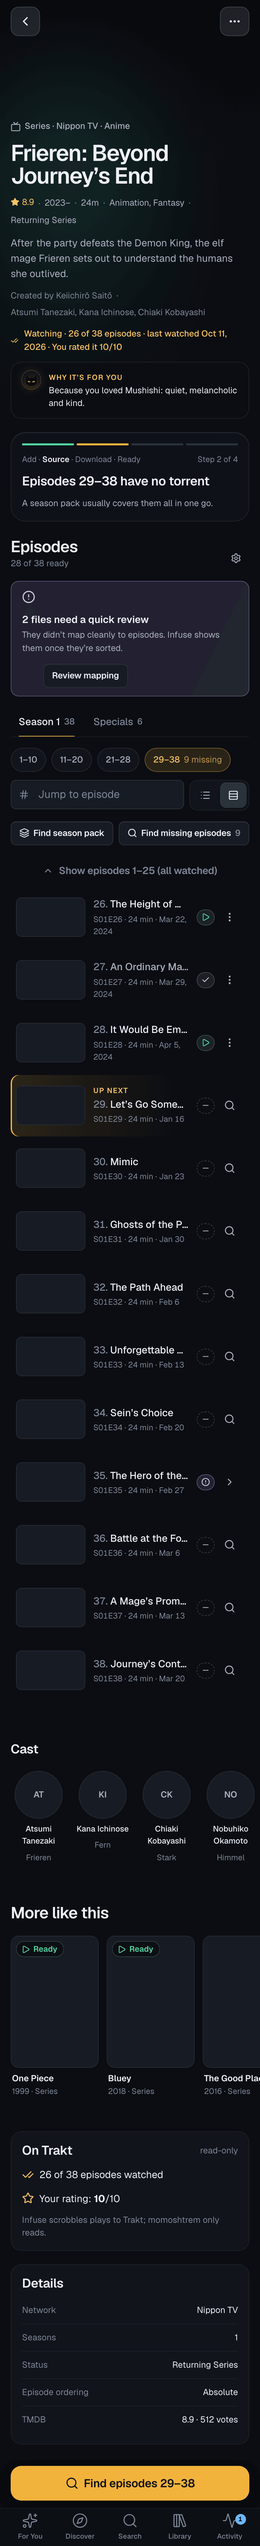
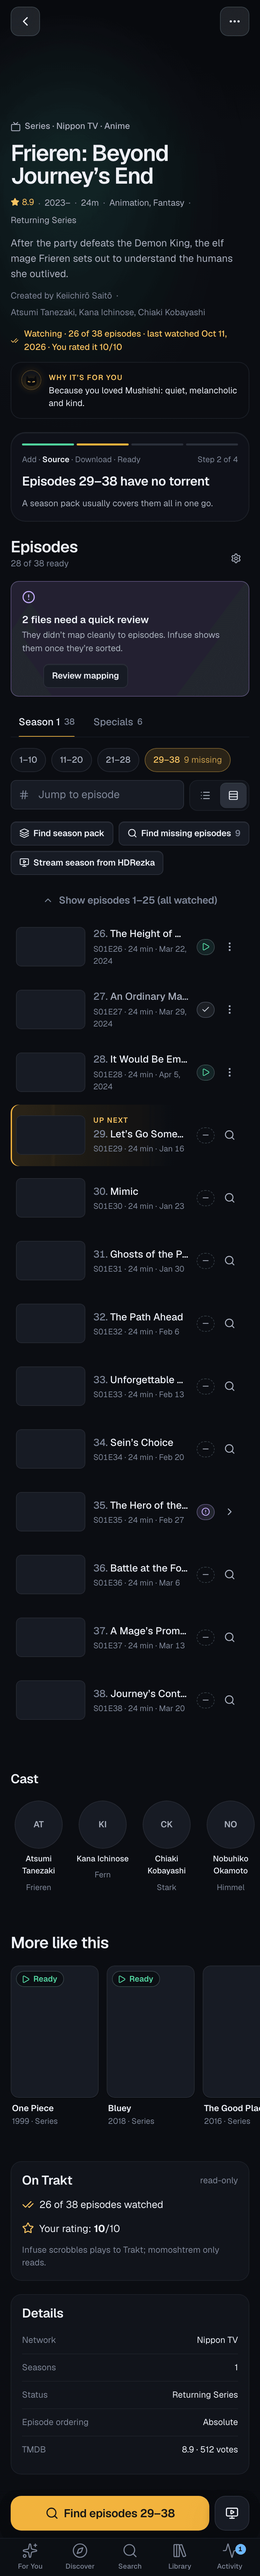
test(web): HDRezka show e2e and screenshots (#67)
e2e/hdrezka.spec.ts, at 390 and 1440 with axe and the 320 px check:
- a show's missing episodes, selected for you, streamed, and the rows
  ready with "Source: HDRezka · AniLibria · 1080p" in the episode sheet;
- a partial failure (hdrezka-partial): what failed stays selected and
  named, and Retry streams only those;
- from the episode sheet: only that episode, and back to it afterwards;
- replacing an episode's torrent from Replace, after the confirm.
The movie test follows the second cut of HDrezka Studio. title-show's
Replace test picks "Find a torrent" from the new menu.

Screenshots: hdrezka/{show-episodes,show-seasons,show-partial,
episode-sheet} are new; hdrezka/steps and show/* are retaken.

diff --git a/web/e2e/hdrezka.spec.ts b/web/e2e/hdrezka.spec.ts
@@ -4,8 +4,9 @@ import { expectNoA11yViolations, expectNoHorizontalOverflow } from './helpers/a1
 
 /**
  * HDRezka as a second source (#67), against the MSW mocks: One Battle After
- * Another needs a file, Dune: Part Two plays from a torrent. Scenarios in
- * src/mocks/scenario.ts (hdrezka-blocked, -premium, -off).
+ * Another needs a file, Dune: Part Two plays from a torrent, Frieren misses
+ * episodes 29–38. Scenarios in src/mocks/scenario.ts (hdrezka-blocked,
+ * -premium, -partial, -off).
  */
 
 /** axe and no sideways scrolling at this width and at 320 px. */
@@ -24,6 +25,7 @@ async function expectAccessibleAndContained(page: Page) {
 const scenario = (page: Page, name: string) => page.addInitScript((value) => window.localStorage.setItem('msw:scenario', value), name);
 const sheet = (page: Page) => page.getByRole('dialog', { name: /^Find a source · / });
 const BEST = 'Битва за битвой (2025)';
+const FRIEREN_HIT = 'Провожающая в последний путь Фрирен (2023)';
 
 /** The panel's button on desktop, the dock's icon on phone: both "Stream from HDRezka". */
 async function openFromPanel(page: Page) {
@@ -49,7 +51,7 @@ test.describe('HDRezka', () => {
     await expectAccessibleAndContained(page);
 
     await best.getByRole('button', { name: `Use ${BEST}` }).click();
-    await expect(dialog.getByRole('radio', { name: 'HDrezka Studio' })).toBeChecked();
+    await expect(dialog.getByRole('radio', { name: 'HDrezka Studio', exact: true })).toBeChecked();
     await expect(dialog.getByRole('radio', { name: 'Дубляж, Premium' })).toBeDisabled();
     await dialog.getByRole('radio', { name: 'Оригинал (+субтитры)' }).check();
     await expect(dialog.getByText('Subtitles: English, Русский')).toBeVisible();
@@ -103,14 +105,14 @@ test.describe('HDRezka', () => {
     await signIn(page, '/movie/1054867');
     await openFromPanel(page);
     await sheet(page).getByRole('button', { name: `Use ${BEST}` }).click();
-    await sheet(page).getByRole('radio', { name: 'Jaskier, Director’s cut' }).check();
+    await sheet(page).getByRole('radio', { name: 'HDrezka Studio, Director’s cut' }).check();
     await sheet(page).getByRole('button', { name: 'Close (your choices are kept)' }).click();
     await expect(sheet(page)).toBeHidden();
     await expect(page).toHaveURL(/\/movie\/1054867$/);
 
     await openFromPanel(page);
     await expect(sheet(page).getByText('Picked up where you left off')).toBeVisible();
-    await expect(sheet(page).getByRole('radio', { name: 'Jaskier, Director’s cut' })).toBeChecked();
+    await expect(sheet(page).getByRole('radio', { name: 'HDrezka Studio, Director’s cut' })).toBeChecked();
 
     await sheet(page).getByRole('tab', { name: 'Torrents' }).click();
     await expect(sheet(page)).toBeHidden();
@@ -162,5 +164,90 @@ test.describe('HDRezka', () => {
     await page.getByRole('button', { name: 'More actions for One Battle After Another' }).click();
     await expect(page.getByText('Refresh from TMDB')).toBeVisible();
     await expect(page.getByText('Stream from HDRezka…')).toHaveCount(0);
+  });
+
+  test('stream a show’s missing episodes: selected for you, then ready from HDRezka', async ({ page }) => {
+    await signIn(page, '/tv/209867');
+    await expect(page.getByRole('region', { name: 'Episodes 29–38 have no torrent' })).toBeVisible();
+    // The panel's secondary on desktop, the dock's icon on phone; a run opens on its season
+    await page.getByRole('button', { name: 'Stream from HDRezka' }).click();
+    await expect(page).toHaveURL(/[?&]sheet=hdrezka&show=209867&season=1/);
+    const dialog = sheet(page);
+    await expect(dialog).toHaveAccessibleName('Find a source · Frieren: Beyond Journey’s End Season 1');
+    await dialog.getByRole('button', { name: `Use ${FRIEREN_HIT}` }).click();
+    await expect(dialog.getByRole('radio', { name: 'AniLibria' })).toBeChecked();
+    const list = dialog.getByRole('list', { name: 'Season 1 episodes on HDRezka' });
+    await expect(list.getByRole('checkbox', { name: /^E29 · .+ → S01E29$/ })).toBeChecked();
+    await expect(list.getByRole('checkbox', { name: /^E28 · / })).not.toBeChecked();
+    await expect(list.getByRole('checkbox', { name: /^E28 · / }).locator('xpath=ancestor::label')).toContainText('Torrent');
+    await expect(dialog.getByText('10 episodes selected')).toBeVisible();
+    await expect(dialog.getByRole('radio', { name: '1080p, 640 MB an episode' })).toBeChecked();
+    await expectAccessibleAndContained(page);
+
+    await dialog.getByRole('button', { name: 'Stream 10 episodes' }).click();
+    await expect(page.getByRole('status').filter({ hasText: '10 episodes of Frieren: Beyond Journey’s End · ready in Infuse' })).toBeVisible();
+    await expect(dialog).toBeHidden();
+    await expect(page.getByRole('region', { name: 'Ready in Infuse' })).toBeVisible();
+
+    // The rows are ready, and the episode sheet names the source
+    await page.getByRole('button', { name: /^S01E30 options/ }).click();
+    const episode = page.getByRole('dialog', { name: 'Mimic' });
+    await expect(episode).toContainText('Source: HDRezka · AniLibria · 1080p');
+    await expect(episode.getByLabel('WebDAV path of this episode')).toContainText('S01E30 - Mimic.mp4');
+  });
+
+  test('a partial failure: what failed stays, and Retry streams only those', async ({ page }) => {
+    await scenario(page, 'hdrezka-partial');
+    await signIn(page, '/tv/209867?sheet=hdrezka&show=209867&season=1');
+    const dialog = sheet(page);
+    await dialog.getByRole('button', { name: `Use ${FRIEREN_HIT}` }).click();
+    await expect(dialog.getByRole('radio', { name: '1080p, 640 MB an episode' })).toBeChecked();
+    await dialog.getByRole('button', { name: 'Stream 10 episodes' }).click();
+
+    const alert = dialog.getByRole('alert');
+    await expect(alert).toContainText('3 episodes didn’t stream');
+    await expect(alert).toContainText('S01E31, S01E34, S01E37. HDRezka took too long to answer for this episode. The rest are ready in Infuse.');
+    await expect(dialog.getByText('3 episodes selected')).toBeVisible();
+    await expect(dialog.getByRole('list', { name: 'Season 1 episodes on HDRezka' }).getByRole('checkbox', { name: /^E30 · / }).locator('xpath=ancestor::label')).toContainText('HDRezka · AniLibria');
+    await expectAccessibleAndContained(page);
+
+    await alert.getByRole('button', { name: 'Retry them' }).click();
+    await expect(page.getByRole('status').filter({ hasText: '3 episodes of Frieren: Beyond Journey’s End · ready in Infuse' })).toBeVisible();
+    await expect(dialog).toBeHidden();
+  });
+
+  test('from the episode sheet: just that episode, and back to it afterwards', async ({ page }) => {
+    await signIn(page, '/tv/209867?sheet=episode&tmdb=209867&se=S01E30');
+    const episode = page.getByRole('dialog', { name: 'Mimic' });
+    await episode.getByRole('button', { name: 'Stream from HDRezka' }).click();
+    const dialog = sheet(page);
+    await expect(dialog).toHaveAccessibleName('Find a source · Frieren: Beyond Journey’s End S01E30 · Mimic');
+    await dialog.getByRole('button', { name: `Use ${FRIEREN_HIT}` }).click();
+    await expect(dialog.getByText('1 episode selected')).toBeVisible();
+    await expect(dialog.getByRole('checkbox', { name: /^E30 · / })).toBeChecked();
+    await dialog.getByRole('button', { name: 'Stream 1 episode' }).click();
+
+    await expect(dialog).toBeHidden();
+    await expect(episode).toContainText('Source: HDRezka · AniLibria · 1080p');
+    await expectAccessibleAndContained(page);
+  });
+
+  test('replacing an episode’s torrent asks first, from Replace in the episode sheet', async ({ page }, testInfo) => {
+    await signIn(page, '/tv/95396?sheet=episode&tmdb=95396&se=S02E05');
+    const episode = page.getByRole('dialog', { name: 'Trojan’s Horse' });
+    await expect(episode).toContainText('Source: Torrent');
+    await episode.getByRole('button', { name: 'Replace' }).click();
+    if (testInfo.project.name === 'mobile') await page.getByRole('dialog', { name: 'Replace with' }).getByRole('button', { name: 'Stream from HDRezka' }).click();
+    else await page.getByRole('menuitem', { name: 'Stream from HDRezka' }).click();
+    const dialog = sheet(page);
+    await dialog.getByRole('button', { name: 'Use Разделение (2022)' }).click();
+    await expect(dialog.getByRole('checkbox', { name: /^E05 · Trojan’s Horse → S02E05$/ })).toBeChecked();
+    await expect(dialog.getByRole('radio', { name: /^1080p, / })).toBeChecked();
+    await dialog.getByRole('button', { name: 'Stream 1 episode' }).click();
+    const confirm = page.getByRole('alertdialog', { name: 'Stream S02E05 of Severance from HDRezka?' });
+    await expect(confirm).toContainText('It already has a file.');
+    await confirm.getByRole('button', { name: 'Stream it' }).click();
+    await expect(dialog).toBeHidden();
+    await expect(episode).toContainText('Source: HDRezka · HDrezka Studio · 1080p');
   });
 });

diff --git a/web/e2e/screenshots.spec.ts b/web/e2e/screenshots.spec.ts
@@ -198,6 +198,45 @@ test.describe('HDRezka sheet', () => {
     await shoot(page, testInfo, 'hdrezka/blocked');
   });
 
+  test('show: episodes', async ({ page }, testInfo) => {
+    await signIn(page, '/tv/209867?sheet=hdrezka&show=209867&season=1');
+    await page.getByRole('button', { name: 'Use Провожающая в последний путь Фрирен (2023)' }).click();
+    await page.getByText('10 episodes selected').waitFor();
+    await page.getByRole('radio', { name: '1080p, 640 MB an episode' }).waitFor();
+    await page.getByRole('heading', { name: 'Episodes', exact: true }).evaluate((heading) => heading.scrollIntoView({ block: 'start' }));
+    await settle(page);
+    await shoot(page, testInfo, 'hdrezka/show-episodes');
+  });
+
+  test('show: seasons', async ({ page }, testInfo) => {
+    await signIn(page, '/tv/95396?sheet=hdrezka&show=95396&season=2');
+    await page.getByRole('button', { name: 'Use Разделение (2022)' }).click();
+    await page.getByRole('button', { name: /^Select all/ }).click();
+    await page.getByRole('heading', { name: 'Episodes', exact: true }).evaluate((heading) => heading.scrollIntoView({ block: 'start' }));
+    await settle(page);
+    await shoot(page, testInfo, 'hdrezka/show-seasons');
+  });
+
+  test('show: partial failure', async ({ page }, testInfo) => {
+    await page.addInitScript(() => window.localStorage.setItem('msw:scenario', 'hdrezka-partial'));
+    await signIn(page, '/tv/209867?sheet=hdrezka&show=209867&season=1');
+    await page.getByRole('button', { name: 'Use Провожающая в последний путь Фрирен (2023)' }).click();
+    await page.getByRole('radio', { name: '1080p, 640 MB an episode' }).waitFor();
+    await page.getByRole('button', { name: 'Stream 10 episodes' }).click();
+    const alert = page.getByRole('alert');
+    await alert.waitFor();
+    await alert.evaluate((banner) => banner.scrollIntoView({ block: 'end' }));
+    await settle(page);
+    await shoot(page, testInfo, 'hdrezka/show-partial');
+  });
+
+  test('episode sheet', async ({ page }, testInfo) => {
+    await signIn(page, '/tv/95396?sheet=episode&tmdb=95396&se=S02E05');
+    await page.getByText('Source: Torrent').waitFor();
+    await settle(page);
+    await shoot(page, testInfo, 'hdrezka/episode-sheet');
+  });
+
   test('ready with the stream', async ({ page }, testInfo) => {
     await open(page);
     await page.getByRole('button', { name: BEST }).click();

diff --git a/web/e2e/title-show.spec.ts b/web/e2e/title-show.spec.ts
@@ -106,7 +106,7 @@ test.describe('show page', () => {
     await expect(page.getByRole('region', { name: 'Episodes 28–38 have no torrent' })).toBeVisible();
   });
 
-  test('the episode sheet closes with Escape and with Back, and hands Replace to the search', async ({ page }) => {
+  test('the episode sheet closes with Escape and with Back, and hands Replace to the search', async ({ page }, testInfo) => {
     await signIn(page, '/tv/209867');
     const options = page.getByRole('button', { name: /^S01E28 options/ });
     const sheet = page.getByRole('dialog', { name: 'It Would Be Embarrassing When We Met Again' });
@@ -128,7 +128,10 @@ test.describe('show page', () => {
     await expect(page).toHaveURL(/\/tv\/209867$/);
 
     await openSheet();
-    await sheet.getByRole('button', { name: 'Replace torrent' }).click();
+    // With HDRezka set up, Replace is a menu: a torrent, or a stream (#67)
+    await sheet.getByRole('button', { name: 'Replace' }).click();
+    if (testInfo.project.name === 'mobile') await page.getByRole('dialog', { name: 'Replace with' }).getByRole('button', { name: 'Find a torrent' }).click();
+    else await page.getByRole('menuitem', { name: 'Find a torrent' }).click();
     await expect(sheet).toBeHidden();
     const search = page.getByRole('dialog', { name: `Search: ${FRIEREN} S01E28` });
     await expect(search).toBeVisible();
